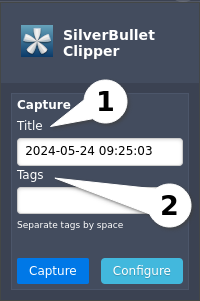
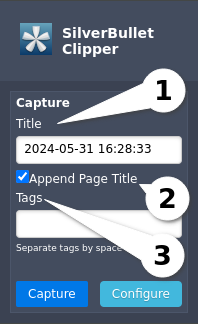
v1.1.0 Updated README and Gruntfile for v1.1.0

diff --git a/src/js/popup.template.js b/src/js/popup.template.js
@@ -33,7 +33,8 @@ document.addEventListener("DOMContentLoaded", () => {
         const token = document.getElementById("token").value;
         const directory = document.getElementById('directory').value;
         const appendPageTitleDefault = document.getElementById('append-page-title-default').checked;
-        <%= runTime %>.storage.sync.set({ "hostURL": hostURL, "token": token, "directory": directory, "appendPageTitleDefault": appendPageTitleDefault }, () => {
+        const maxTitleLength = document.getElementById("max-title-length").value;
+        <%= runTime %>.storage.sync.set({ "hostURL": hostURL, "token": token, "directory": directory, "appendPageTitleDefault": appendPageTitleDefault, "maxTitleLength": maxTitleLength }, () => {
             hideConfigure();
             showCapture();
             document.getElementById('append-page-title').checked = appendPageTitleDefault;
@@ -87,11 +88,12 @@ function showConfigure() {
         configure.classList.remove("hidden");
     }
     //Get the hostURL and token from storage
-    <%= runTime %>.storage.sync.get(["hostURL", "token", "directory", "appendPageTitleDefault"], (items) => {
+    <%= runTime %>.storage.sync.get(["hostURL", "token", "directory", "appendPageTitleDefault", "maxTitleLength"], (items) => {
         document.getElementById('hostURL').value = items?.hostURL || '';
         document.getElementById('token').value = items?.token || '';
         document.getElementById('directory').value = items.directory || 'Inbox';
         document.getElementById('append-page-title-default').checked = items.appendPageTitleDefault;
+        document.getElementById('max-title-length').value = items.maxTitleLength || '70';
     });
 }
 

diff --git a/dist/firefox/js/popup.js b/dist/firefox/js/popup.js
@@ -33,7 +33,8 @@ document.addEventListener("DOMContentLoaded", () => {
         const token = document.getElementById("token").value;
         const directory = document.getElementById('directory').value;
         const appendPageTitleDefault = document.getElementById('append-page-title-default').checked;
-        browser.storage.sync.set({ "hostURL": hostURL, "token": token, "directory": directory, "appendPageTitleDefault": appendPageTitleDefault }, () => {
+        const maxTitleLength = document.getElementById("max-title-length").value;
+        browser.storage.sync.set({ "hostURL": hostURL, "token": token, "directory": directory, "appendPageTitleDefault": appendPageTitleDefault, "maxTitleLength": maxTitleLength }, () => {
             hideConfigure();
             showCapture();
             document.getElementById('append-page-title').checked = appendPageTitleDefault;
@@ -87,11 +88,12 @@ function showConfigure() {
         configure.classList.remove("hidden");
     }
     //Get the hostURL and token from storage
-    browser.storage.sync.get(["hostURL", "token", "directory", "appendPageTitleDefault"], (items) => {
+    browser.storage.sync.get(["hostURL", "token", "directory", "appendPageTitleDefault", "maxTitleLength"], (items) => {
         document.getElementById('hostURL').value = items?.hostURL || '';
         document.getElementById('token').value = items?.token || '';
         document.getElementById('directory').value = items.directory || 'Inbox';
         document.getElementById('append-page-title-default').checked = items.appendPageTitleDefault;
+        document.getElementById('max-title-length').value = items.maxTitleLength || '70';
     });
 }
 

diff --git a/dist/chrome/js/popup.js b/dist/chrome/js/popup.js
@@ -33,7 +33,8 @@ document.addEventListener("DOMContentLoaded", () => {
         const token = document.getElementById("token").value;
         const directory = document.getElementById('directory').value;
         const appendPageTitleDefault = document.getElementById('append-page-title-default').checked;
-        chrome.storage.sync.set({ "hostURL": hostURL, "token": token, "directory": directory, "appendPageTitleDefault": appendPageTitleDefault }, () => {
+        const maxTitleLength = document.getElementById("max-title-length").value;
+        chrome.storage.sync.set({ "hostURL": hostURL, "token": token, "directory": directory, "appendPageTitleDefault": appendPageTitleDefault, "maxTitleLength": maxTitleLength }, () => {
             hideConfigure();
             showCapture();
             document.getElementById('append-page-title').checked = appendPageTitleDefault;
@@ -87,11 +88,12 @@ function showConfigure() {
         configure.classList.remove("hidden");
     }
     //Get the hostURL and token from storage
-    chrome.storage.sync.get(["hostURL", "token", "directory", "appendPageTitleDefault"], (items) => {
+    chrome.storage.sync.get(["hostURL", "token", "directory", "appendPageTitleDefault", "maxTitleLength"], (items) => {
         document.getElementById('hostURL').value = items?.hostURL || '';
         document.getElementById('token').value = items?.token || '';
         document.getElementById('directory').value = items.directory || 'Inbox';
         document.getElementById('append-page-title-default').checked = items.appendPageTitleDefault;
+        document.getElementById('max-title-length').value = items.maxTitleLength || '70';
     });
 }
 

diff --git a/dist/chrome/html/popup.html b/dist/chrome/html/popup.html
@@ -97,7 +97,7 @@
                     <label for="title">Title</label>
                     <input type="text" id="title">
                     <label for="append-page-title" class="pure-checkbox">
-                        <input type="checkbox" id="append-page-title" />Append page title 
+                        <input type="checkbox" id="append-page-title" />Append Page Title 
                     </label>
                     <label for="tags">Tags</label>
                     <input type="text" id="tags">
@@ -131,6 +131,9 @@
                         <input type="checkbox" id="append-page-title-default"/>Append Page Title 
                     </label>
                     <span class="pure-form-message">When ticked, append page title is defaulted to true</span>
+                    <label for="max-title-length">Max. Title Length</label>
+                    <input type="text" id="max-title-length">
+                    <span class="pure-form-message">Controls the length of the note title</span>
                 </fieldset>
                 <fieldset>
                     <legend>About</legend>

diff --git a/dist/firefox/html/popup.html b/dist/firefox/html/popup.html
@@ -97,7 +97,7 @@
                     <label for="title">Title</label>
                     <input type="text" id="title">
                     <label for="append-page-title" class="pure-checkbox">
-                        <input type="checkbox" id="append-page-title" />Append page title 
+                        <input type="checkbox" id="append-page-title" />Append Page Title 
                     </label>
                     <label for="tags">Tags</label>
                     <input type="text" id="tags">
@@ -131,6 +131,9 @@
                         <input type="checkbox" id="append-page-title-default"/>Append Page Title 
                     </label>
                     <span class="pure-form-message">When ticked, append page title is defaulted to true</span>
+                    <label for="max-title-length">Max. Title Length</label>
+                    <input type="text" id="max-title-length">
+                    <span class="pure-form-message">Controls the length of the note title</span>
                 </fieldset>
                 <fieldset>
                     <legend>About</legend>

diff --git a/src/html/popup.template.html b/src/html/popup.template.html
@@ -97,7 +97,7 @@
                     <label for="title">Title</label>
                     <input type="text" id="title">
                     <label for="append-page-title" class="pure-checkbox">
-                        <input type="checkbox" id="append-page-title" />Append page title 
+                        <input type="checkbox" id="append-page-title" />Append Page Title 
                     </label>
                     <label for="tags">Tags</label>
                     <input type="text" id="tags">
@@ -131,6 +131,9 @@
                         <input type="checkbox" id="append-page-title-default"/>Append Page Title 
                     </label>
                     <span class="pure-form-message">When ticked, append page title is defaulted to true</span>
+                    <label for="max-title-length">Max. Title Length</label>
+                    <input type="text" id="max-title-length">
+                    <span class="pure-form-message">Controls the length of the note title</span>
                 </fieldset>
                 <fieldset>
                     <legend>About</legend>

diff --git a/src/js/service-worker.template.js b/src/js/service-worker.template.js
@@ -139,7 +139,12 @@ async function captureTab(title, tags, appendPageTitle) {
     }
     const invalidCharactersRegex = /[^a-zA-Z0-9\-_\s\(\):]/g;
     title = title.replace(invalidCharactersRegex,'_');
-    title = (title.length > 70)?title.substring(0,66) + '...)':title;
+    <%= runTime %>.storage.sync.get(["maxTitleLength"], (items) => {
+        let maxTitleLength = Number(items.maxTitleLength || '70');
+        if (Number.isInteger(maxTitleLength) && maxTitleLength > 0) {
+            title = (title.length > maxTitleLength)?title.substring(0,maxTitleLength - 5) + '...)':title;    
+        }
+    });
     //Get the selected HTML form the tab and then send to the offscreen document for parsing
     const text = await getTextFromSelection(tab.id);
         sendMessageToOffscreenDocument(

diff --git a/dist/firefox/js/service-worker.js b/dist/firefox/js/service-worker.js
@@ -82,7 +82,12 @@ async function captureTab(title, tags, appendPageTitle) {
     }
     const invalidCharactersRegex = /[^a-zA-Z0-9\-_\s\(\):]/g;
     title = title.replace(invalidCharactersRegex,'_');
-    title = (title.length > 70)?title.substring(0,66) + '...)':title;
+    browser.storage.sync.get(["maxTitleLength"], (items) => {
+        let maxTitleLength = Number(items.maxTitleLength || '70');
+        if (Number.isInteger(maxTitleLength) && maxTitleLength > 0) {
+            title = (title.length > maxTitleLength)?title.substring(0,maxTitleLength - 5) + '...)':title;    
+        }
+    });
     //Get the selected HTML form the tab and then send to the offscreen document for parsing
     const text = await getTextFromSelection(tab.id);
         sendMessageToOffscreenDocument(

diff --git a/dist/chrome/js/service-worker.js b/dist/chrome/js/service-worker.js
@@ -93,7 +93,12 @@ async function captureTab(title, tags, appendPageTitle) {
     }
     const invalidCharactersRegex = /[^a-zA-Z0-9\-_\s\(\):]/g;
     title = title.replace(invalidCharactersRegex,'_');
-    title = (title.length > 70)?title.substring(0,66) + '...)':title;
+    chrome.storage.sync.get(["maxTitleLength"], (items) => {
+        let maxTitleLength = Number(items.maxTitleLength || '70');
+        if (Number.isInteger(maxTitleLength) && maxTitleLength > 0) {
+            title = (title.length > maxTitleLength)?title.substring(0,maxTitleLength - 5) + '...)':title;    
+        }
+    });
     //Get the selected HTML form the tab and then send to the offscreen document for parsing
     const text = await getTextFromSelection(tab.id);
         sendMessageToOffscreenDocument(

diff --git a/Gruntfile.js b/Gruntfile.js
@@ -1,5 +1,5 @@
 module.exports = function(grunt) {
-    const version = '1.0.0';
+    const version = '1.1.0';
     // Project configuration.
     grunt.initConfig({
         pkg: grunt.file.readJSON('package.json'),

diff --git a/README.md b/README.md
@@ -16,13 +16,14 @@ The extension is available for **Google Chrome** and **Opera** via the [Chrome W
 [![Mozilla Add-on Version](https://img.shields.io/amo/v/silverbullet-clipper?style=for-the-badge&logo=firefox&logoColor=white)](https://addons.mozilla.org/addon/silverbullet-clipper/)
 
 # Usage
-## The Capture Page
+## 1. The Capture Page
 ![Capture Page](images/silverbullet_main.png)
 
 1. The title of the page as it will appear in SilverBullet. This mimics the title of a page created by the SilverBullet "Quick Note" button.
-2. Multiple tags, separated by spaces, can be added to the page. The tags can be entered with or without a leading hash. For example, this is a valid entry: tag1 #tag2 tag3   
+2. When the Append Page Title is selected, the web page title will be added to the title entered in (1.1). This is defaulted to off but can be defaulted to on via the configure page (2.4). The page title will be enclosed in brackets. Eg 2024-05-31 16:28:33 (The Age Newspaper). 
+3. Multiple tags, separated by spaces, can be added to the page. The tags can be entered with or without a leading hash. For example, this is a valid entry: tag1 #tag2 tag3   
 
-## The Configure Page
+## 2. The Configure Page
 ![Capture Page](images/silverbullet_configure.png)
 
 1. The host URL points to the instance of your SilverBullet installation. If you're running SilverBullet locally the URL will be something like http://192.168.86.54:3000. If you are running SilverBullet externally, or accessing it via a proxy, the host URL will be something like https://silverbullet.mydomain.com
@@ -47,6 +48,9 @@ The extension is available for **Google Chrome** and **Opera** via the [Chrome W
             - 3000:3000
     ```
 3. The directory is where your page will be created in SilverBullet. The default directory is Inbox as this is the directory that the SilverBullet Quick Note uses.
+4. When the Append Page Title is selected, the Append Page Title check box on the Capture page (1.2) will default to selected.
+5. The Max. Title Length determines how long the note's title will be. This is defaulted to 70 characters. If the note title exceeds this length, '...' will indicate that the title has been concatenated. Eg 2024-05-31 16:28:33 (The Age Newspaper Melbourne Aus...)
+
 # Build & Testing
 ## Instructions to Build the Extensions with Grunt
 The extension is already built and can be found in the dist/chrome and dist/firefox folders. If you want to rebuild them the follow these instuctions:
@@ -101,18 +105,22 @@ SilverBullet Clipper uses the following libraries:
 - Storage: used to save extension options.
 
 # Version History
-## 0.1.0
-- Beta development
-## 0.2.0
-- Added support for light and dark theme preferences
-## 0.3.0
-- Added a user friendly error if the send to SilverBullet fails
-- Fixed a missing style on the legend element needed for dark mode
-- Added firefox version
+## 1.1.0
+- Added the option to append the web page title to the note's title when on the capture page. The default is don't append
+- Added the option to default the append web title checkbox to true. The default is false
+- Added the option to set the length of the note's title (the default is 70 characters). Trailing '...' will show that the title has been concatenated
+## 1.0.0
+- Added ability to specify the SilverBullet directory the capture will be saved to. Thanks [dklawran](https://github.com/dklawren)
 ## 0.3.1
 - Changed link to new SilverBullet page from encodeURIComponent() to encodeURI() to make the link consistent with how SilverBullet formats links.
 - Removed '.md' from the link to the new SilverBullet page as it's redundant
 - Fixed missing image when looking at the extension in My Extensions
 - Sanatized HTML for enhanced security
-## 1.0.0
-- Added ability to specify the SilverBullet directory the capture will be saved to. Thanks [dklawran](https://github.com/dklawren)
+## 0.3.0
+- Added a user friendly error if the send to SilverBullet fails
+- Fixed a missing style on the legend element needed for dark mode
+- Added firefox version
+## 0.2.0
+- Added support for light and dark theme preferences
+## 0.1.0
+- Beta development
